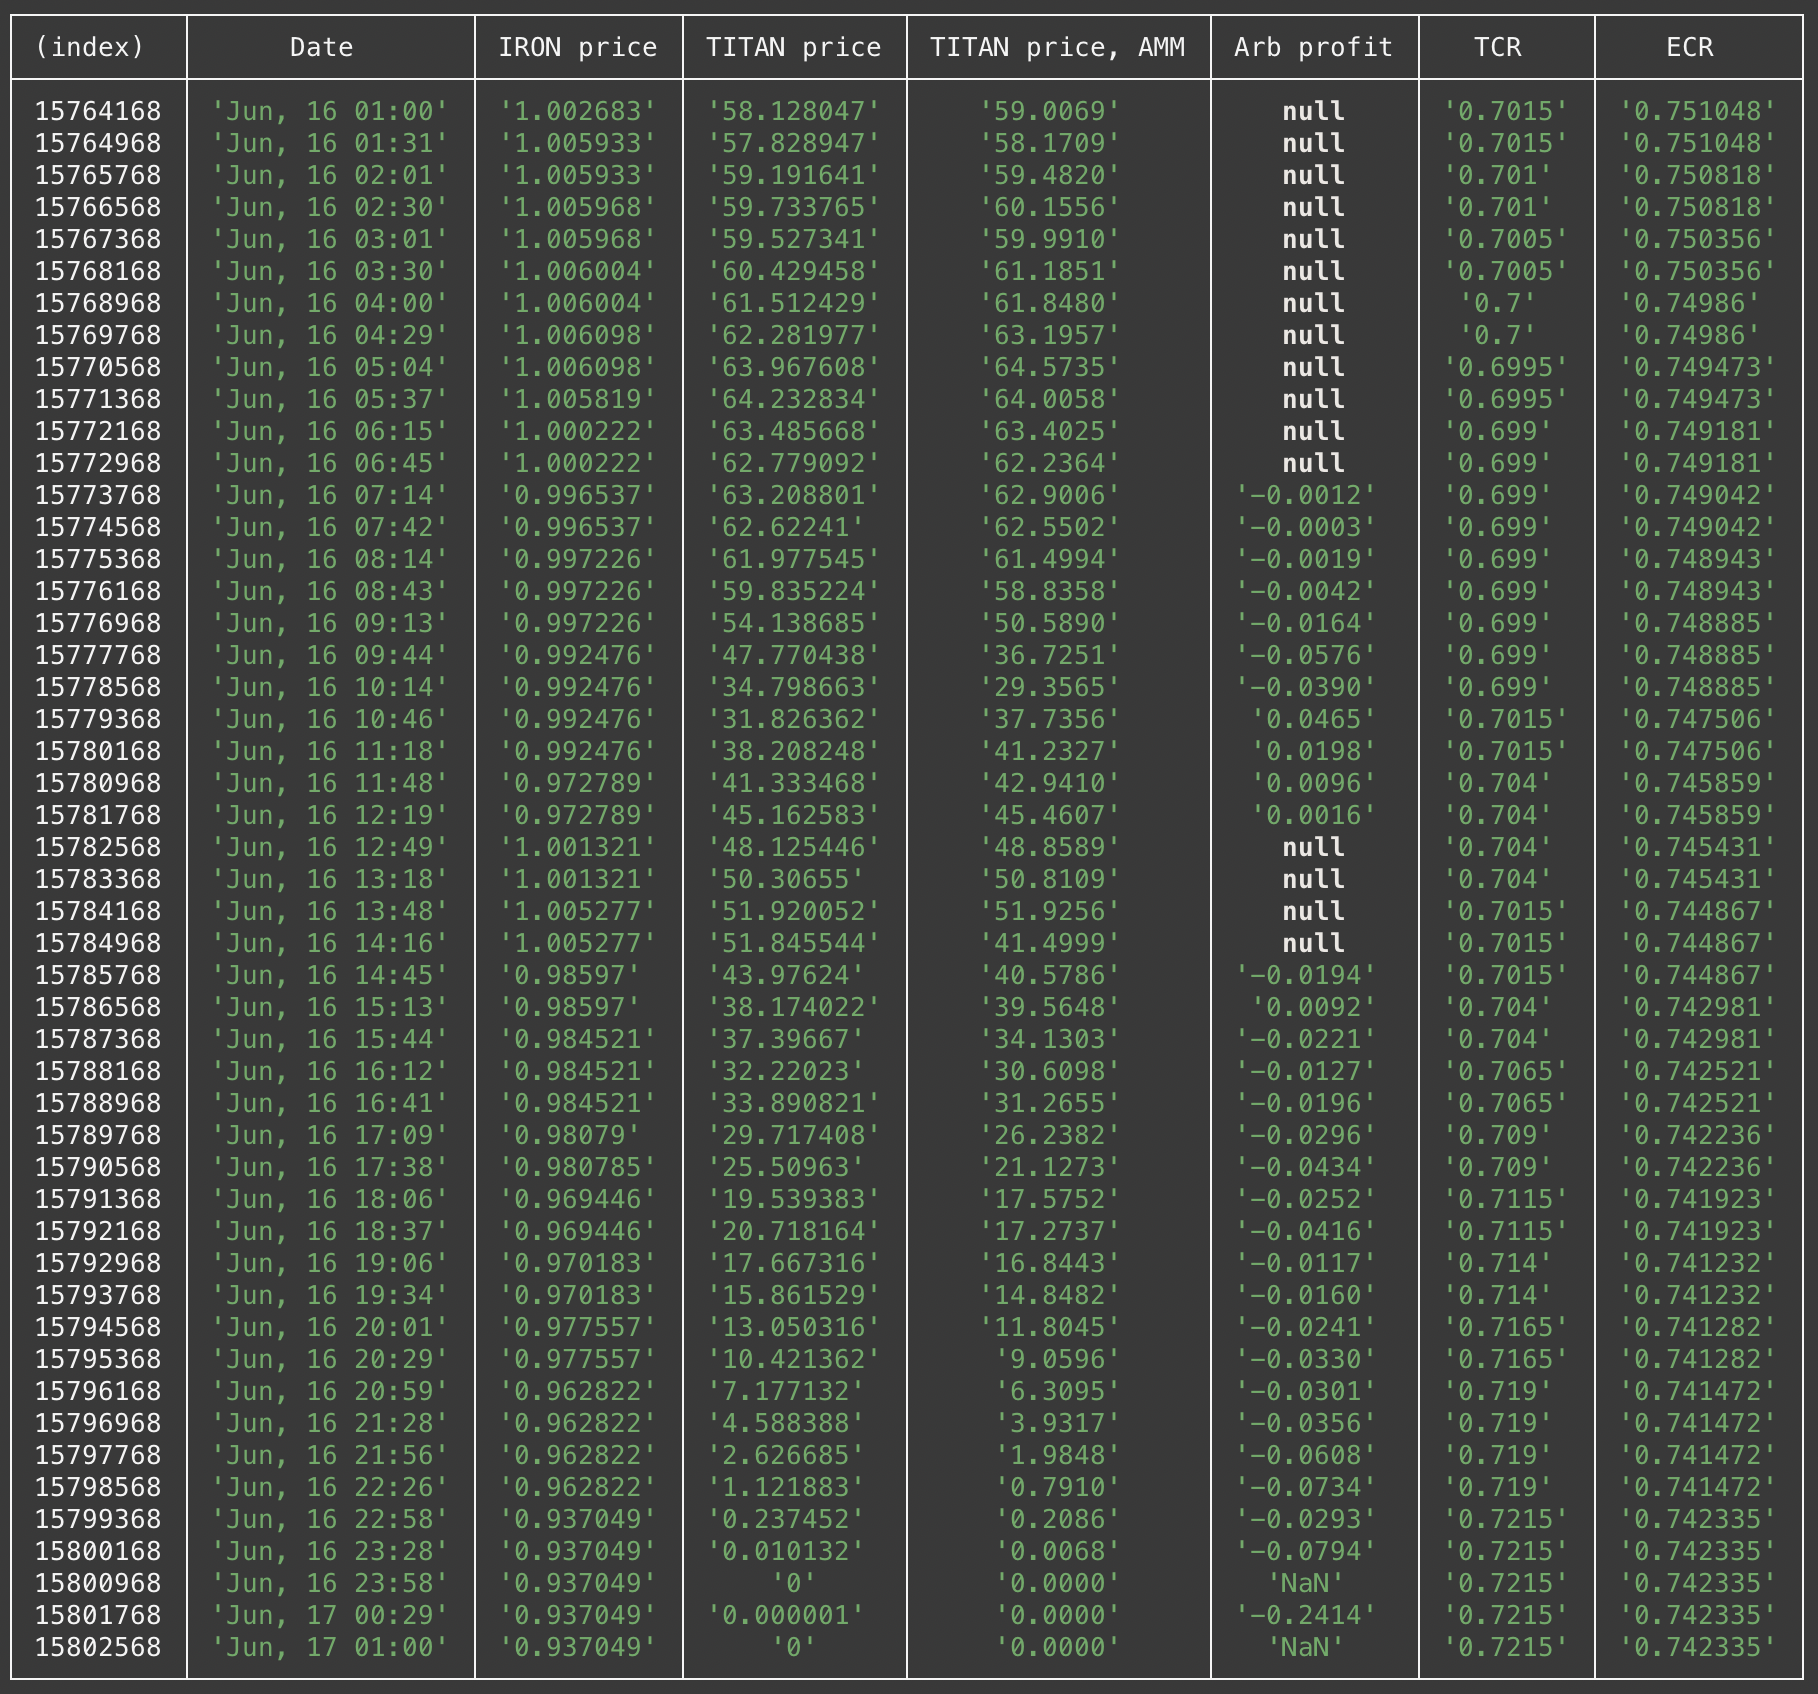
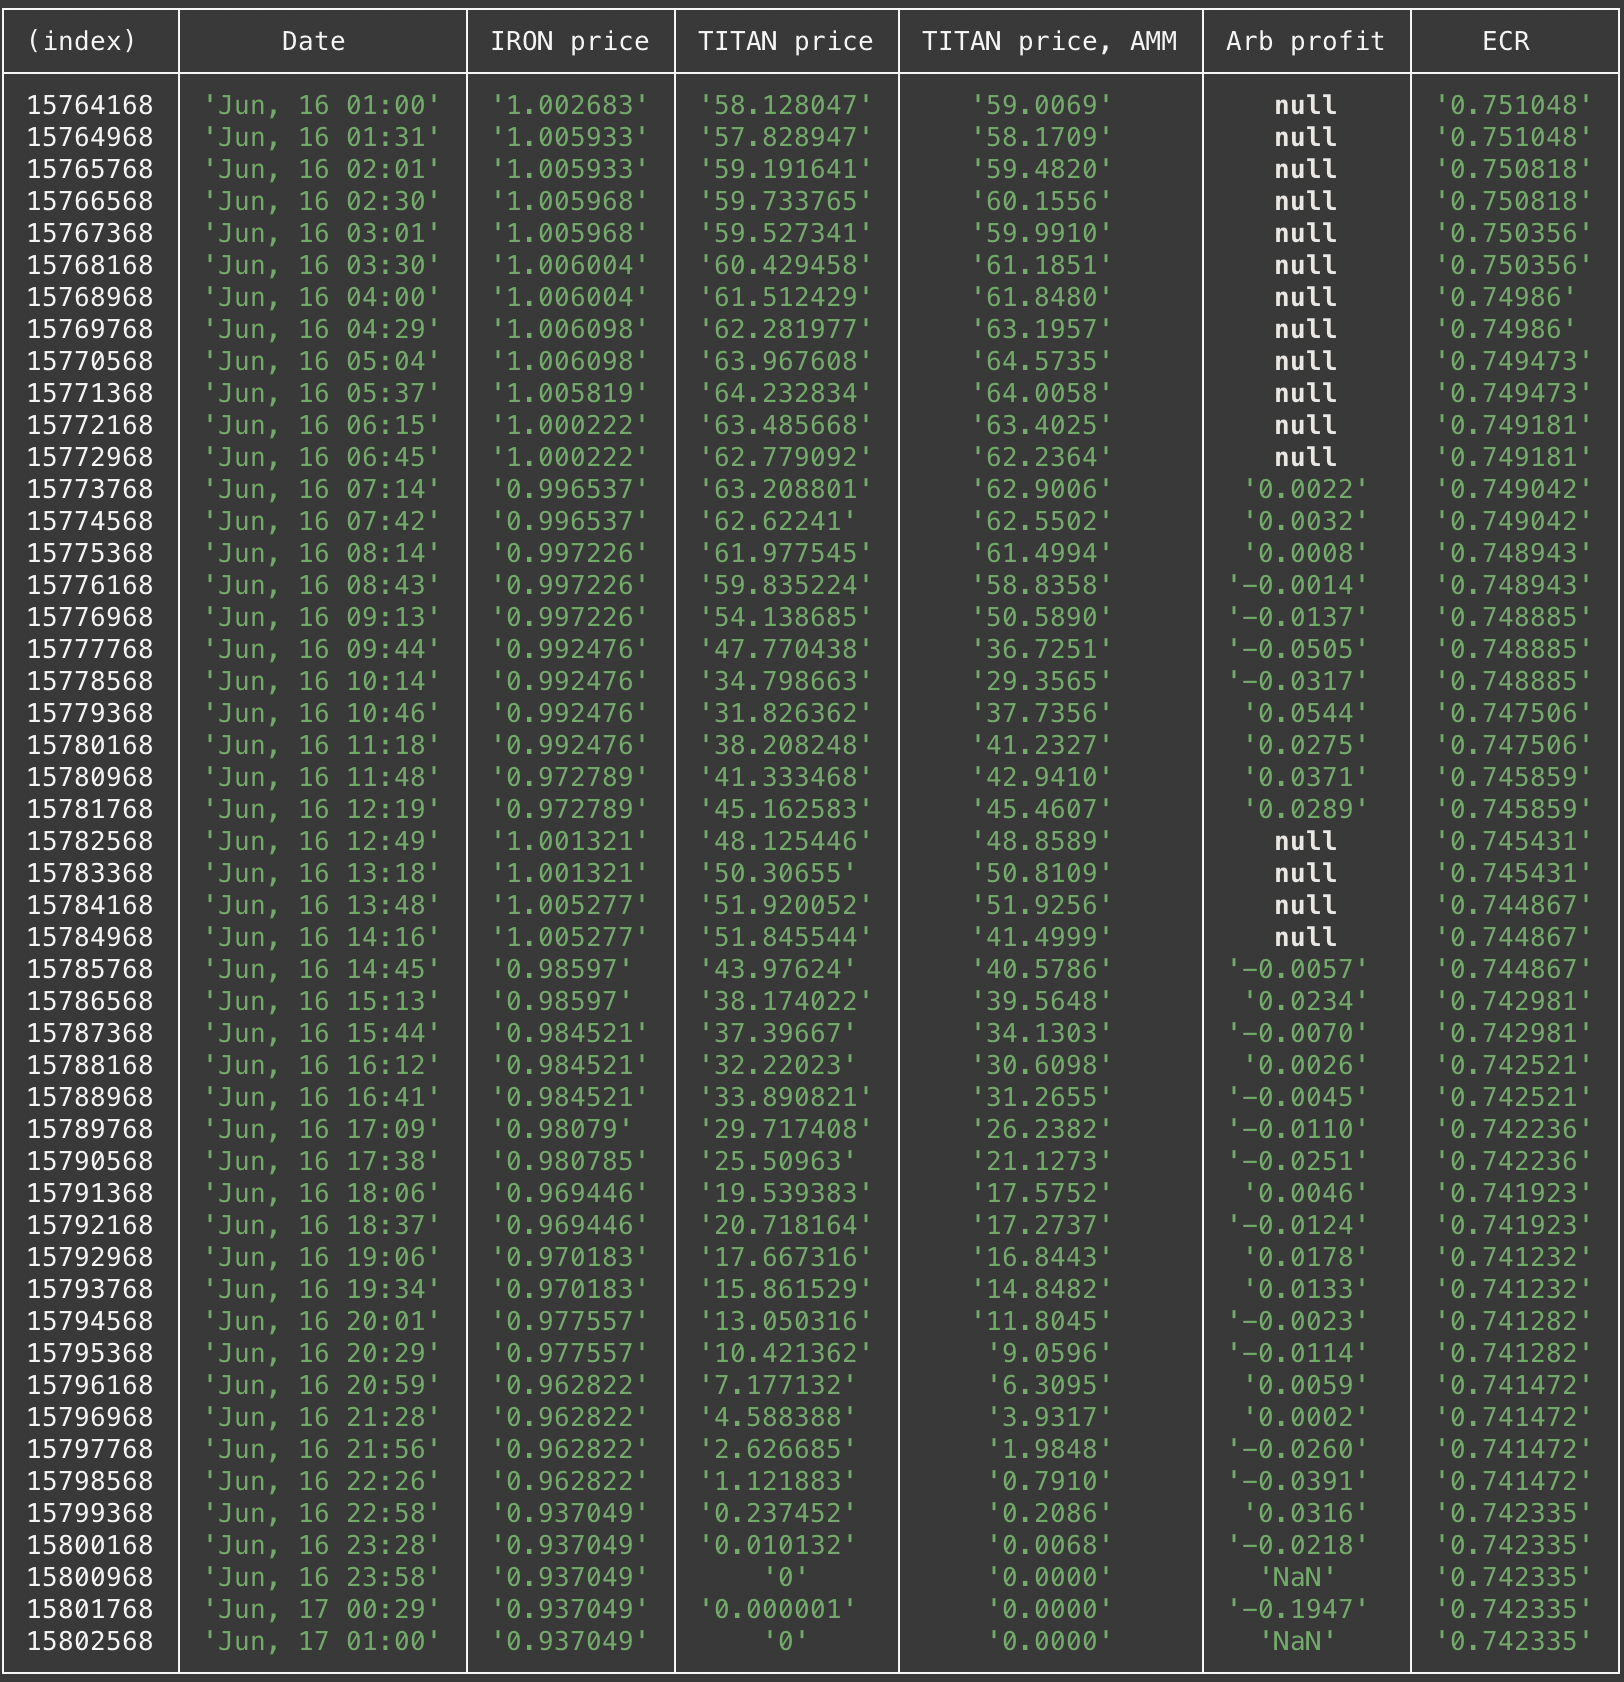
Multple edits of the recent post

Changed region(s): [[0.0, 0.0, 1.0, 1.0]]

diff --git a/content/posts/analysis-titan-fall.md b/content/posts/analysis-titan-fall.md
@@ -11,6 +11,13 @@ Photo by
 on
 [Unsplash](https://unsplash.com/s/photos/error?utm_source=unsplash&utm_medium=referral&utm_content=creditCopyText)
 
+> **Updated on June 21:**
+>
+> 1. Added low ECR as another cause of the incident.
+> 1. Added a reference to Frax Finance.
+> 1. Added an explanation of arbitraging.
+> 1. Fixed a bug in arbitraging profits calculations, which caused lower values.
+
 ## Introduction
 
 This is an analysis of an incident that happened to [Iron.Finance](https://iron.finance) on June 16, 2021.
@@ -92,8 +99,10 @@ This stabilization mechanism worked. And it worked (once) on the day when the in
 
 This is the on-chain data that I collected and that helped to find the flaw:
 
-![Timeline](/images/iron-finance-timeline-small.png)
+![Timeline](/images/iron-finance-timeline.png)
 [Click to see a bigger version](/images/iron-finance-timeline.png)
+
+> **Update, June 21**: first version of the table contained a bug that resulted in lower arbitraging profits.
 
 Columns are:
 
@@ -108,7 +117,7 @@ Columns are:
    market, redeeming USDC+TITAN, and selling redeemed TITAN on the market. Fees are not included. Values in this column
    are only calculated when IRON price is below $1.
    This is the most important column.
-1. **TCR**, **ECR** – TCR and ECR respectively. ECR is used in the arbitraging scheme explained above.
+1. **ECR** – ECR is used in the arbitraging scheme explained above.
 
 Everything looked good until around 7:14 AM: at this time, TITAN reached its peak price but IRON has gone a little below
 $1.
@@ -131,11 +140,28 @@ at around $0.94, which is a huge drop for a stablecoin. The Iron.Finance team ha
 **What happened to the stabilization mechanism?** It had worked earlier on that day but somehow failed to save the
 tokens from collapsing during a new sell-off.
 
-If you look at the _Arb profit_ column, you will know the answer: **the were no incentive for arbitrageurs to stabilize
-the price**. Their profit was negative during the massive sell-off. The main reason why it was so is the delayed TITAN
-price oracle: because of the delay, TITAN prices obtained from the oracle and used to calculate the amount of TITAN
-tokens redeemed for IRON, were higher than those on AMM (real-time prices). **That price gap made arbitraging
-unprofitable**.
+If you look at the _Arb profit_ column, you will know the answer: **arbitraging couldn't provide profit consistently**.
+Even though the price stayed below $1, profit wasn't consistent during the sell-off. This means that arbitraging, which
+is a part of the stabiliziation mechanism, wasn't always possible. As a result, there was not enough of buying pressure
+to bump the price.
+
+There were two reasons why this happened.
+
+The first reason is the delayed TITAN price oracle: because of the delay, TITAN prices obtained from the
+oracle and used to calculate the amount of TITAN tokens redeemed for IRON, were higher than those on AMM (real-time
+prices). **That price gap made arbitraging unprofitable**.
+
+The other reason is low ECR. ECR is used in redeeming to determine the portion of TITAN you get. During the
+second sell-off, it equaled to 74%, which means 1 IRON was redeemed for 74 cents worth of USDC and 26 cents worth of
+TITAN. And this portion of TITAN was too big due to the price gap (the more TITAN you get the more money you lose
+selling it on the external market).
+
+I ran a simulation which showed that an ECR increased by 15% would've made arbitraging profitable:
+
+![Simulation: ECR increased by 15%](/images/iron-finance-timeline-simulation.png)
+[Click to see a bigger version](/images/iron-finance-timeline-simulation.png)
+
+However, ECR is not designed to react to market changes, it only reflects the percentage of IRON tokens backed by USDC.
 
 ## How arbitraging could save it
 
@@ -156,8 +182,7 @@ The profit would come from selling TITAN. And this expectation had played out du
 However, it couldn't kick-start during the second sell-off. There was not enough buying pressure on IRON to bump the
 price. And we now know the cause: arbitraging wasn't profitable. Since TITAN was falling for a longer period and oracle
 prices was delayed, the actual value of TITAN tokens redeemed for IRON was lower than expected. Or in other words, the
-value of USDC+TITAN redeemed for IRON was lower than $1 and even lower than the price of IRON at that moment (with fees
-it was even lower than that).
+value of USDC+TITAN redeemed for IRON was lower than $1 (with fees it was even lower).
 
 ## Conclusion
 
